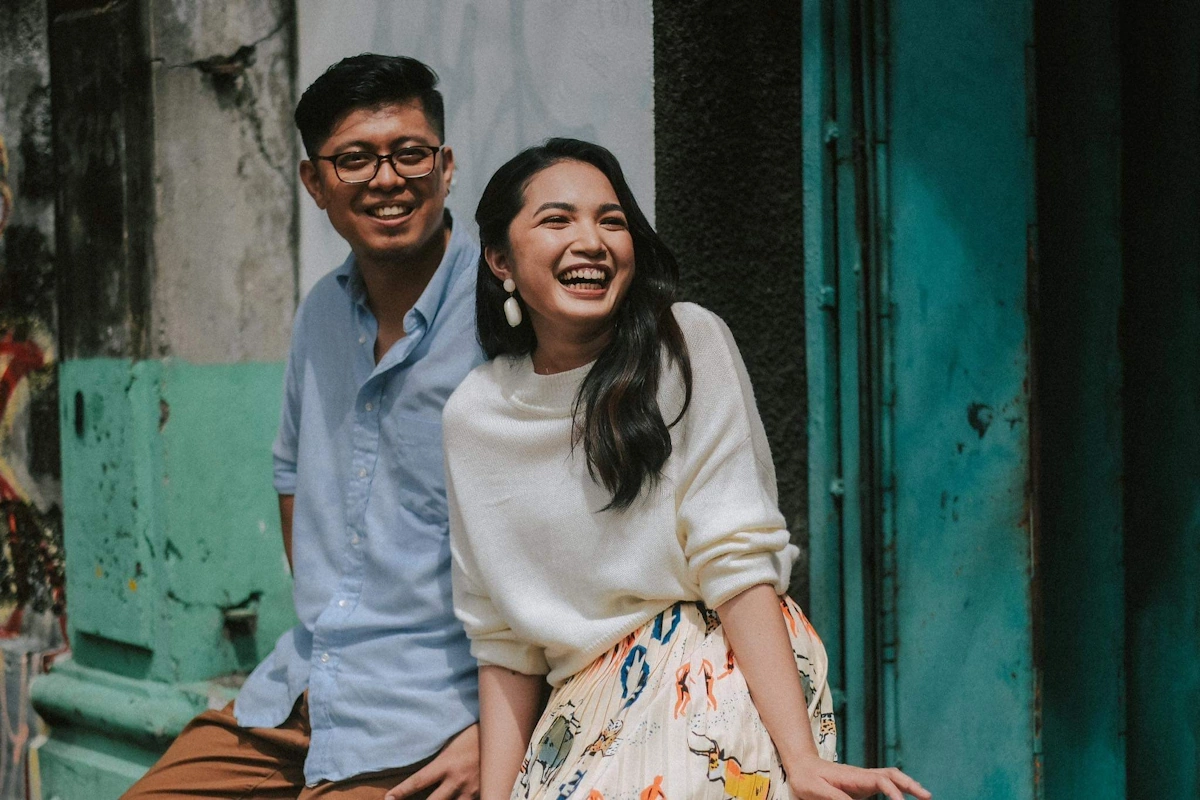
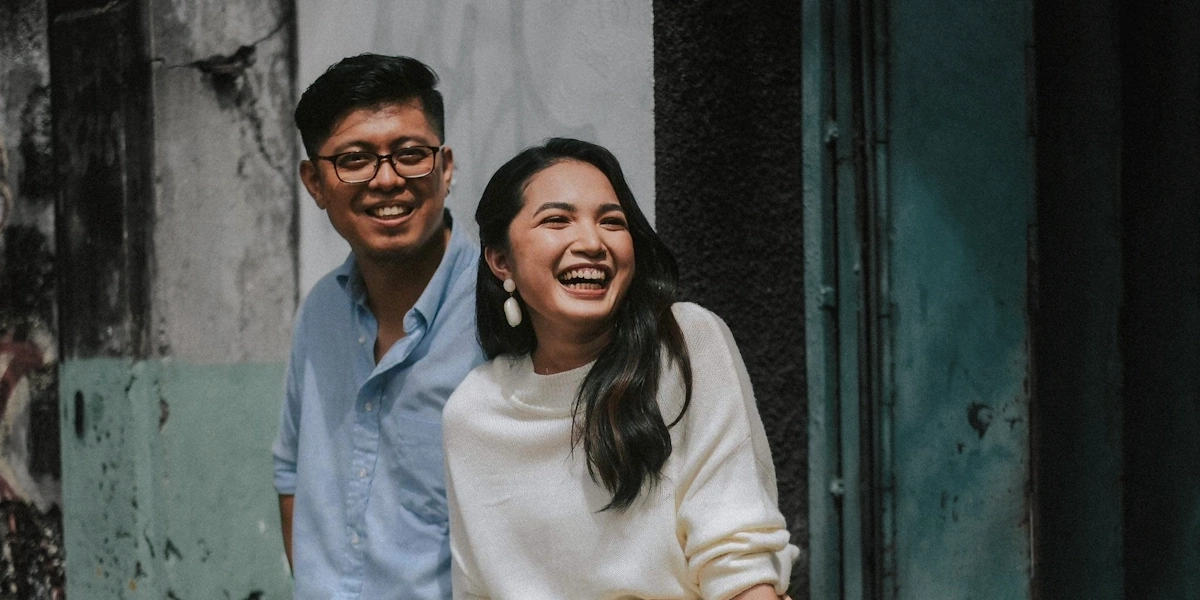
udpated ui

diff --git a/src/pages/home/RsvpForm.jsx b/src/pages/home/RsvpForm.jsx
@@ -5,9 +5,9 @@ import image from "../../assets/images/webp/image4.webp"
 
 const headerStyles = {
   fontFamily: "Bodoni-Bold",
-  fontSize: 25,
-  letterSpacing: 1.2,
-  opacity: .9,
+  fontSize: 22,
+  letterSpacing: 3.5,
+  opacity: .85,
 }
 
 
@@ -60,12 +60,12 @@ const RsvpForm = React.forwardRef((props, ref) => {
       <Box sx={{position: 'relative', mb: 10}}>
         <Grid container>
           <Grid item xs={12} sx={{mb: 16, pt: 15}} ref={ref}>
-            <Typography variant="h4" sx={{fontSize: {lg: 50}}}>Rsvp</Typography>
+            <Typography variant="h4" sx={{fontSize: {lg: 50}}}>be our guest</Typography>
           </Grid>
           <Grid item xs={12}>
             <Grid container>
               <Grid item xs={7} sx={{textAlign: "left"}}>
-                <Typography sx={headerStyles}>We'd love to have you join us for our special day</Typography>
+                <Typography sx={headerStyles}>RSVP</Typography>
                 {/* <Typography sx={headerStyles}>We'd love for you to join us for our special day</Typography> */}
                 {/* <Box sx={{height: "1px", width: "95%", backgroundColor: "success.main", my: .25, ml: .25, opacity: .7}}></Box>           */}
                 <Box component="form" sx={{mt: 10}}>
@@ -84,13 +84,13 @@ const RsvpForm = React.forwardRef((props, ref) => {
                         <FormControlLabel 
                           value="yes" 
                           control={<Radio />} 
-                          label="Yes, I accept the invitation" 
+                          label="Gladly accepts" 
                           componentsProps={radioLabelStyles} 
                         />
                         <FormControlLabel 
                           value="no" 
                           control={<Radio />} 
-                          label="No, unfortunately, I can't make it" 
+                          label="Can't make it" 
                           componentsProps={radioLabelStyles} 
                         />
                       </RadioGroup>

diff --git a/src/components/Appbar.jsx b/src/components/Appbar.jsx
@@ -1,9 +1,8 @@
 import { useState } from 'react';
 import { Box, Container, Link, Typography, Button } from '@mui/material'
 import Image from 'mui-image'
-import headerImg from "../assets/images/nav-header-png.png";
+import headerImg from "../assets/images/nav-header-png-350.png";
 import "./Appbar.scss"
-import { HashLink as ReactLink } from 'react-router-hash-link';
 
 const linkStyles = {
   textDecoration: "none",
@@ -97,7 +96,7 @@ const Appbar = ({ detailsRef, mapRef, rsvpRef }) => {
       >
         <Container>
           <Box sx={{display: "flex", justifyContent: "space-between"}}>
-            <Link sx={linkStyles} onClick={() => window.scrollTo({top:0, left:0, behavior: "smooth"})}>Home</Link>
+            <Link sx={linkStyles} onClick={() => window.scrollTo({top:0, left:0, behavior: "smooth"})}>The Wedding</Link>
             <Link sx={linkStyles} onClick={() => detailsRef.current.scrollIntoView({behavior:"smooth", block: "start", inline:"start"})}>Details</Link>
             <Link sx={linkStyles} onClick={() => mapRef.current.scrollIntoView({behavior:"smooth", block: "start", inline:"start"})}>Map</Link>
             <Link sx={linkStyles} onClick={() => rsvpRef.current.scrollIntoView({behavior:"smooth", block: "start", inline:"start"})}>Rsvp</Link>

diff --git a/src/pages/home/Landing.jsx b/src/pages/home/Landing.jsx
@@ -40,7 +40,7 @@ const Landing = () => {
         animation="fade"
       >
         {updatedImages && updatedImages.map(item => <Box key={item.alt}>
-          <Image src={item.src} alt={item.alt} sx={{filter: "grayscale(55%) opacity(.9)"}} duration={0} fit="cover" />
+          <Image src={item.src} alt={item.alt} sx={{filter: "grayscale(40%) opacity(.92)"}} duration={0} fit="cover" />
           {/* <Image src={item.src} alt={item.alt} sx={{filter: "grayscale(5%) opacity(1)"}} duration={0} fit="cover" /> */}
         </Box>)}
       </Carousel>

diff --git a/src/pages/home/Details.jsx b/src/pages/home/Details.jsx
@@ -26,7 +26,7 @@ const Details = React.forwardRef((props, ref) => {
       <Box sx={{position: 'relative'}}>
         <Grid container>
           <Grid item xs={12} sx={{mb: 16, pt: 15}} ref={ref}>
-            <Typography variant="h4" sx={{fontSize: {lg: 50}}}>Details</Typography>
+            <Typography variant="h4" sx={{fontSize: {lg: 50}}}>details</Typography>
           </Grid>
           <Grid item xs={12}>
             <Box sx={{height: 35, width: "2px", backgroundColor: "success.main", mx: "auto", my: 2}}></Box>          

diff --git a/src/pages/home/Map.jsx b/src/pages/home/Map.jsx
@@ -7,7 +7,7 @@ const Map = React.forwardRef((props, ref) => {
       <Box sx={{height: "100vh", position: 'relative', mt: 50}}>
         <Grid container>
           <Grid item xs={12} sx={{mb: 16, pt: 15}} ref={ref}>
-            <Typography variant="h4" sx={{fontSize: {lg: 50}}}>Map</Typography>
+            <Typography variant="h4" sx={{fontSize: {lg: 50}}}>map</Typography>
           </Grid>
         </Grid>
       </Box>
